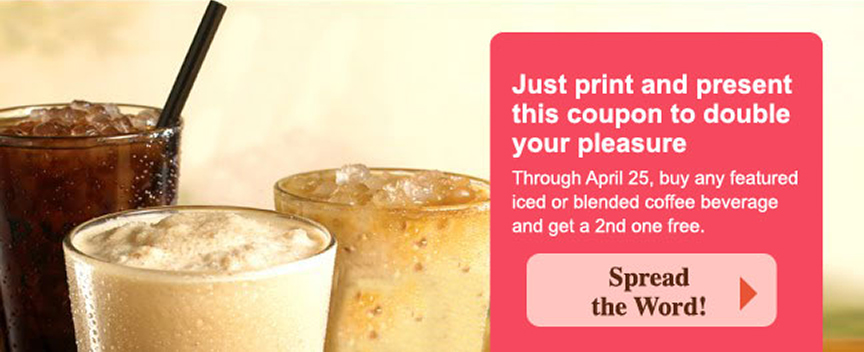
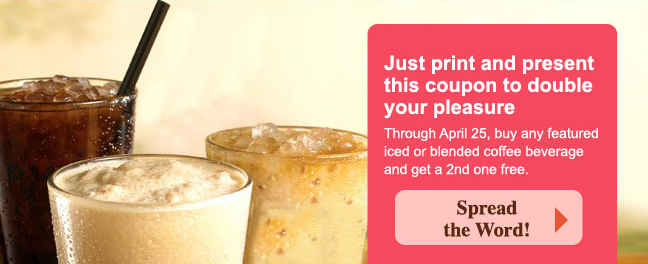
Edits
Finicky stuff.

diff --git a/public/css.css b/public/css.css
@@ -6,17 +6,22 @@
   padding: 0; 
 }
 
+html {
+	font-size: 15px;
+}
+
 body {
-	font-size: 1em;
+	font-size: 0.75em;
 	font-family: sans-serif;
 	color: #fff4fb;
 	margin: 0;
 	padding: 0;
+	line-height: 1.2;
 }
 
 main {
 	margin: 0 auto;
-	width: 54em;
+	width: 648px;
 }
 
 h1, h2 {
@@ -25,7 +30,7 @@ h1, h2 {
 }
 
 h1 {
-	font-size: 5em;
+	font-size: 5.25em;
 	line-height: 1;
 }
 
@@ -36,19 +41,19 @@ h2 {
 }
 
 h3 {
-	font-size: 1.5em;
+	font-size: 1.75em;
 	color: #fff4fb;
 }
 
 .coupon {
 	width: 100%;
-	height: 32.8125em;
+	height: 264px;
 	background-color: #c93042;
 }
 
 .header {
 	width: 100%;
-	height: 10.75em;
+	height: 130px;
 	background-color: #c93042;
 	text-align: center;
 }
@@ -56,7 +61,7 @@ h3 {
 .bg {
 	position: relative;
 	width: 100%;
-	height: 22em;
+	height: 264px;
 	background-image: url("background.jpg");
 	background-repeat: no-repeat;
 }
@@ -64,8 +69,8 @@ h3 {
 .info-box {
 	background-color: #f6485f;
 	border-radius: 0.875em 0.875em 0 0;
-	width: 20.75em;
-	height: 20em;
+	width: 250px;
+	height: 240px;
 	position: absolute;
 	top: 2em;
 	right: 2.625em;
@@ -77,12 +82,12 @@ h3 {
 }
 
 .info-box h3 {
-	padding: 2rem 1rem 0 1.625rem;
+	padding: 1.75rem 1rem 0 1rem;
 }
 
 .info-box p {
-	padding: 1rem 3rem 1rem 1.625rem;
-	line-height: 1.4;
+	padding: 0.5rem 0.5rem 1rem 1rem;
+	font-size: 1.25em;
 }
 
 .button {
@@ -92,18 +97,18 @@ h3 {
 	border-style: none;
 	cursor: pointer;
 	font-family: serif;
-	font-size: 1.5em;
+	font-size: 1.85em;
 	font-weight: bolder;
 	color: #5d2a15;
 	line-height: 1;
 	text-align: center;
-	padding: 1rem 4rem;
+	padding: 0.5rem 3.5rem;
 }
 
 .fa-caret-right {
 	position: absolute;
 	top: 0.75rem;
-	right: 1.25rem;
+	right: 1rem;
 	color: #e4502c;
 }
 

diff --git a/public/index.html b/public/index.html
@@ -24,7 +24,7 @@
 					<h3>Just print and present this coupon to double your pleasure</h3>
 					<p>Through April 25, buy any featured iced or blended coffee beverage and get a 2nd one free.</p>
 					<button class="button">Spread <br> the Word!
-					<i class="fa fa-caret-right" style="font-size: 3.5rem" aria-hidden="true"></i></button>
+					<i class="fa fa-caret-right fa-2x" aria-hidden="true"></i></button>
 				</aside>
 			</section>
 		</main>
